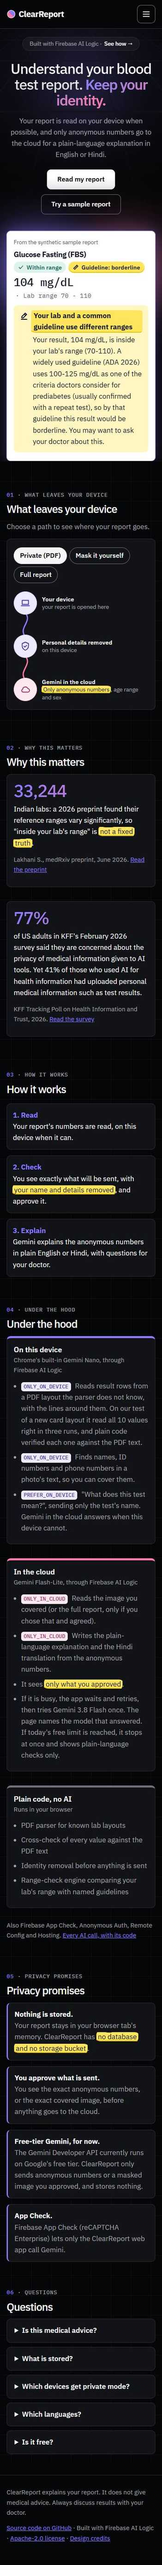
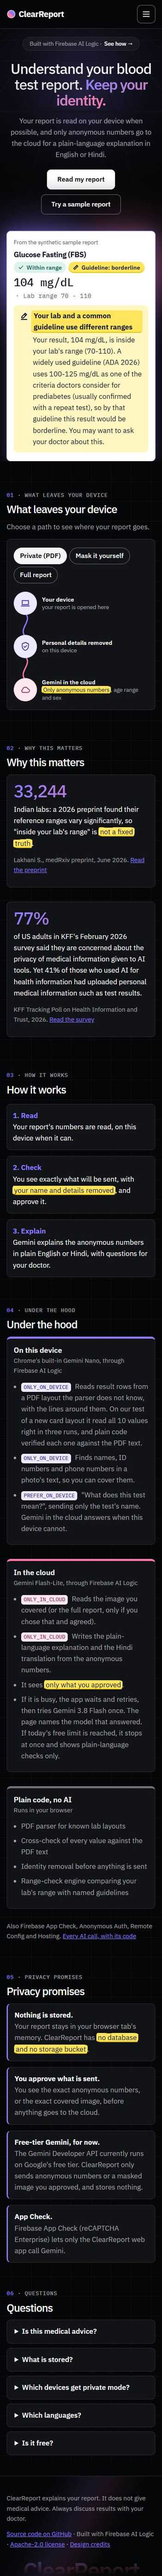
Landing footer: diagonal light shaft and cropped wordmark

Changed region(s): [[0.0285, 0.0311, 0.9117, 1.0], [0.7407, 0.9027, 0.7692, 0.9338]]

diff --git a/src/index.css b/src/index.css
@@ -489,8 +489,14 @@ a.btn.quiet { border-color: var(--border); color: var(--ink); font-weight: 500; 
 .faq summary { padding: 14px 18px; color: var(--night-text); min-height: 48px; }
 .faq details p { color: var(--night-muted); }
 .faq details p { padding: 0 18px 4px; margin-top: 0; }
-.land-footer { margin: 32px 0 0; padding: 28px 16px 40px; background: var(--night); color: var(--night-muted); font-size: 0.95rem; border-top: 1px solid var(--night-border); }
-.land-footer > * { max-width: 1040px; margin-left: auto; margin-right: auto; }
+/* The footer: a slow diagonal light shaft and a giant "ClearReport" wordmark cropped at the bottom edge (after the
+   21st.dev "Beam Wordmark Footer", rebuilt in plain CSS; decorative only). */
+.land-footer { position: relative; overflow: hidden; isolation: isolate; container-type: inline-size; margin: 32px 0 0; padding: 40px 16px 0; background: var(--night); color: var(--night-muted); font-size: 0.95rem; border-top: 1px solid var(--night-border); }
+.land-footer::before { content: ''; position: absolute; z-index: -1; top: -60%; left: 0; width: 36%; height: 220%; pointer-events: none; background: linear-gradient(90deg, transparent, rgba(139, 124, 255, 0.16) 40%, rgba(255, 122, 168, 0.12) 62%, transparent); transform: rotate(28deg); filter: blur(28px); animation: footer-beam 16s ease-in-out infinite alternate; }
+@keyframes footer-beam { from { translate: -30% 0; } to { translate: 230% 0; } }
+.footer-inner { max-width: 1040px; margin: 0 auto; }
+.footer-word { margin: 24px 0 0; height: 0.74em; overflow: hidden; text-align: center; font-size: 15.5cqi; font-weight: 600; line-height: 1; letter-spacing: -0.05em; white-space: nowrap; user-select: none; color: transparent; background: linear-gradient(to bottom, rgba(139, 124, 255, 0.42), rgba(255, 122, 168, 0.14) 55%, transparent 92%); -webkit-background-clip: text; background-clip: text; }
+@media (prefers-reduced-motion: reduce) { .land-footer::before { animation: none; translate: 80% 0; } }
 @media (max-width: 720px) {
   .land-grid2, .promises { grid-template-columns: 1fr; }
   .land-hero-top { padding-top: 20px; }

diff --git a/src/Landing.tsx b/src/Landing.tsx
@@ -5,6 +5,7 @@ import { Badge, Icon, Logo } from './ui'
 // The landing page at "/". Static: no Firebase, no AI, no report. The tool lives at /app.
 // Hero layout inspired by "Hero Section Dark" by kinfe123 / FarmUI (MIT) and the 21st.dev "SaaS Template" (header,
 // announcement pill, button styles and the glow behind the product image), rebuilt in plain CSS with the Specimen tokens.
+// The footer's light shaft and cropped wordmark take their look from the 21st.dev "Beam Wordmark Footer" (CSS only).
 
 const REPO = 'https://github.com/tusharshah21/ClearReport'
 
@@ -209,10 +210,13 @@ export default function Landing() {
       </main>
 
       <footer className="land-footer land-dark">
-        <p>{DISCLAIMER}</p>
-        <p>
-          <a href={REPO}>Source code on GitHub</a> · Built with Firebase AI Logic · <a href={`${REPO}/blob/main/LICENSE`}>Apache-2.0 license</a> · <a href={`${REPO}#design-credits`}>Design credits</a>
-        </p>
+        <div className="footer-inner">
+          <p>{DISCLAIMER}</p>
+          <p>
+            <a href={REPO}>Source code on GitHub</a> · Built with Firebase AI Logic · <a href={`${REPO}/blob/main/LICENSE`}>Apache-2.0 license</a> · <a href={`${REPO}#design-credits`}>Design credits</a>
+          </p>
+        </div>
+        <div className="footer-word" aria-hidden="true">ClearReport</div>
       </footer>
     </div>
   )

diff --git a/scripts/contrast.ts b/scripts/contrast.ts
@@ -63,4 +63,11 @@ for (const [f, use] of [['night-text', 'header text and logo name over the light
   if (process.argv.includes('--table')) console.log(`| \`--${f}\` ${T[f]} | header over \`--paper\` ${header} | ${r.toFixed(2)}:1 | 4.5:1 | ${use} |`)
   assert.ok(r >= 4.5, `contrast --${f} on the header over paper: ${r.toFixed(2)} < 4.5`)
 }
-console.log(`contrast ok: ${rows.length} pairs, the hero gradient and the header over paper`)
+// The footer's light shaft brightens the black by at most violet at 20% (it is 16% at its peak, then blurred).
+const beam = mix(T.night, T['glow-violet'], 0.2)
+for (const [f, use] of [['night-muted', 'footer text under the light shaft'], ['glow-violet', 'footer links under the light shaft']] as const) {
+  const r = ratio(T[f], beam)
+  if (process.argv.includes('--table')) console.log(`| \`--${f}\` ${T[f]} | footer shaft ${beam} | ${r.toFixed(2)}:1 | 4.5:1 | ${use} |`)
+  assert.ok(r >= 4.5, `contrast --${f} under the footer shaft: ${r.toFixed(2)} < 4.5`)
+}
+console.log(`contrast ok: ${rows.length} pairs, the hero gradient, the header over paper and the footer shaft`)

diff --git a/docs/superpowers/specs/2026-11-23-ui-theme-design.md b/docs/superpowers/specs/2026-11-23-ui-theme-design.md
@@ -100,7 +100,7 @@ The landing page only; the app screens do not change. The header, announcement p
 - Buttons: white (a white to `--light-btn-end` #E4E4E9 gradient, black text, a gentle scale on hover) and ghost (transparent, thin `--night-border` border).
 - Product image: rounded 14px with a large soft shadow and a violet-to-rose radial glow behind it (CSS only), kept clear of the hero text and buttons. The live glucose card on phones stays.
 - The hero fades in on load (0.6s); with `prefers-reduced-motion` it does not, and the white button does not scale.
-- The footer is black with the header's thin border.
+- The footer is black with the header's thin border. Behind it a soft violet-to-rose light shaft drifts slowly on a diagonal (static with `prefers-reduced-motion`), and a very large "ClearReport" wordmark in a fading glow gradient is cropped at the bottom edge (decorative, `aria-hidden`). It shows only what the footer already had: the disclaimer and the GitHub, Firebase AI Logic, licence and design credits line.
 - Every landing section follows the hero (since 2026-11-24, replacing the light paper sections and the black-to-paper edge under the product image): black with a very faint flat grid (white at 3.5%), cards on `--night-surface` with a `--night-border` border and no shadow, section headings in Plex Sans 500 at -0.03em, section labels in `--night-muted` with `--glow-violet` numbers, the two big facts in the violet-to-rose gradient, privacy promises as dark cards with a violet left edge, Under the hood with glow-coloured top edges. The data-journey tabs are ghost buttons (white when selected) and its pulse uses the glow colours. The highlighter marks stay yellow with ink text. The app (/app) stays on light paper.
 - Contrast: the headline's faintest point is 9.78:1, the white buttons 16.00:1 at their palest, header links 4.65:1 where the translucent header sits over the light paper (checked as `--night` at 80% over `--paper`).
 

diff --git a/README.md b/README.md
@@ -211,3 +211,4 @@ No UI library is installed. These MIT-licensed designs were used as visual refer
 - The Data trail timeline: Dice UI "Timeline", MIT, https://21st.dev/@diceui/components/timeline
 - The upload drop zone: "File Upload" by Edu Calvo (educlopez), MIT, https://21st.dev/@educlopez/components/file-upload
 - The landing page hero (perspective grid and centred layout): "Hero Section Dark" by kinfe123 / FarmUI, MIT, https://21st.dev/@kinfe123/components/hero-section-dark
+- The landing footer (diagonal light shaft and the large cropped wordmark): "Beam Wordmark Footer" by Kedhar (kedhareswer) on 21st.dev, licence not stated on the page, so only the look was used and no code was copied
